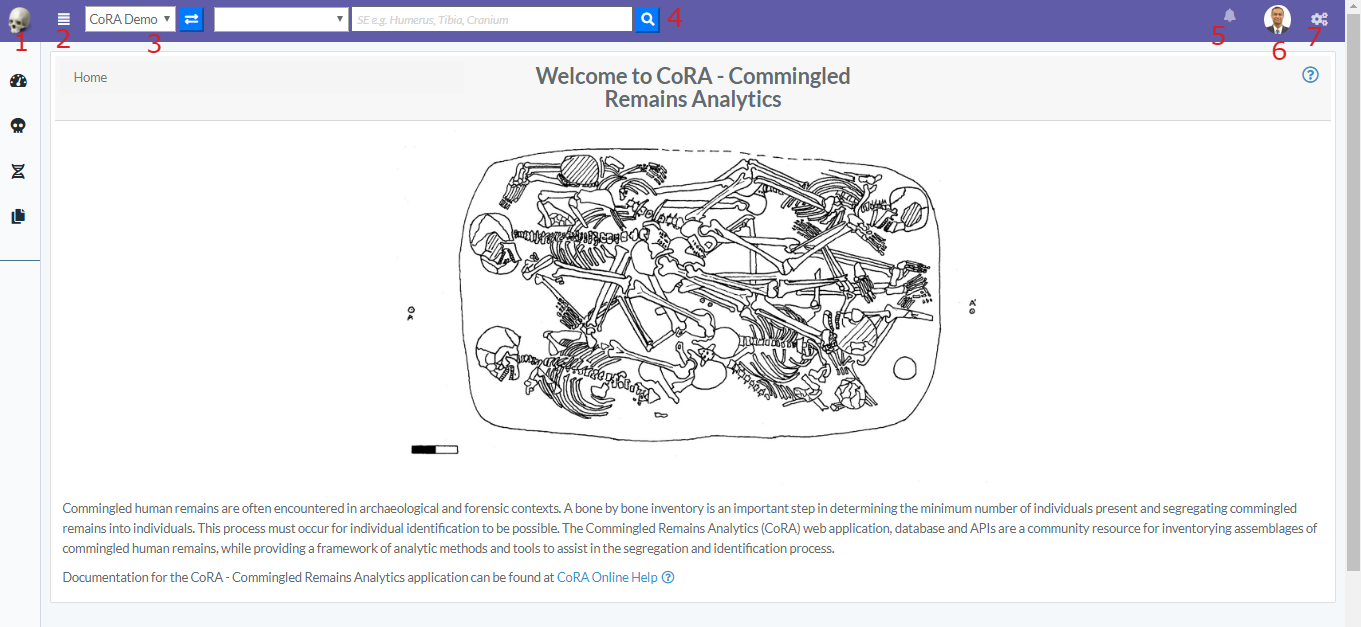
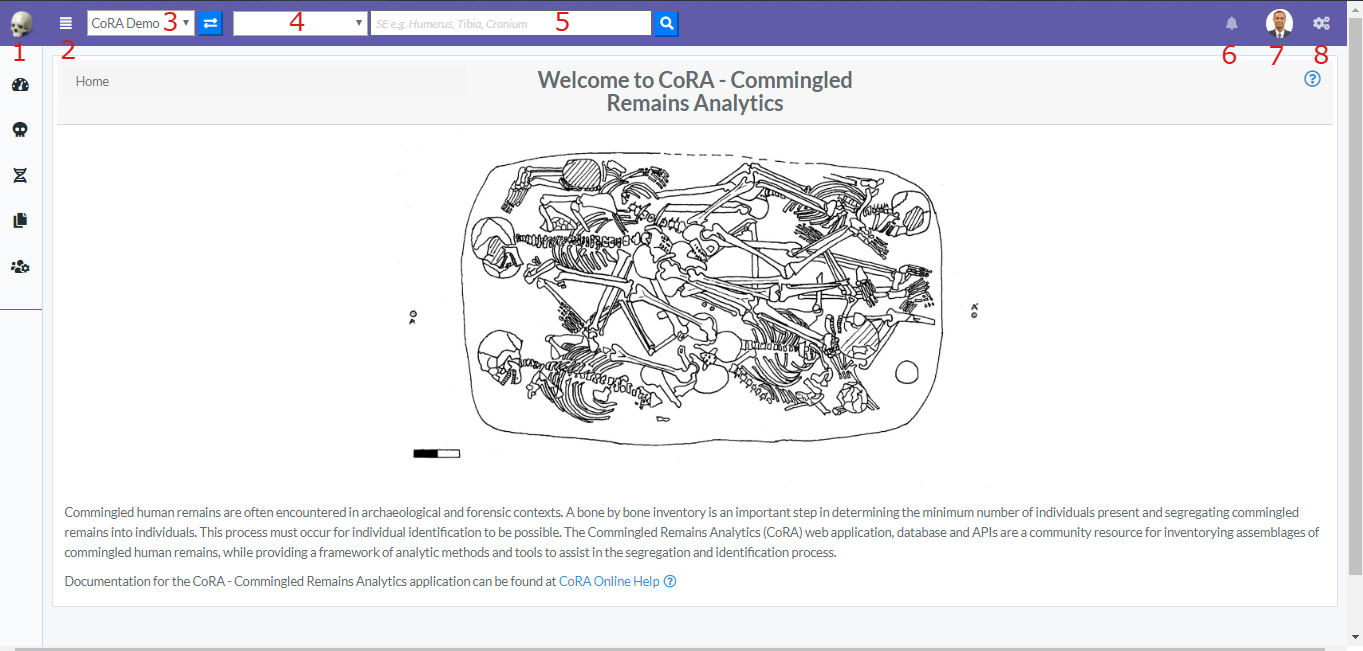
updated the images and layout of leftsidebar document

diff --git a/docs/user-guide/site-navigation.md b/docs/user-guide/site-navigation.md
@@ -8,38 +8,69 @@ The CoRA web application consists of the four basic components. These are-
 
 
    ![Welcome Screen](../images/site_navigation/Welcome%20Screen.png)
-   1. Top Navigation Bar
-   ![Top Navigation Bar](../images/site_navigation/Navigation%20bar.png)
    
-        The navigation bar consists of the CoRA icon, toggle the left sidebar button, project switcher dropdown, advance search bar, the notifications icon, user profile avatar, and the right sidebar button.
-        
-         1. CoRA (1) - The CoRA icon take the user to the home page of the site.
-         2. Toggle the Left Side bar (2) - The Toggle button opens and close the left sidebar.
-         3. Project Switcher (3) - The Project switcher button allows the user to select the different projects the user is a part of.
-         4. Advance Search bar (4) - The Advance search bar allows the user to search the Skeletal Elements and DNA. The user can search the Skeletal Elements by - Bone, Composite key, Accession Number, Provenance 1, Provenace 2, Designator, External ID, Individual Number.
+   
+* ##Top Navigation Bar (1)-
+     The navigation bar consists of the CoRA icon, toggle the left sidebar button, project switcher dropdown, advance search bar, the notifications icon, user profile avatar, and the right sidebar button.
+       
+   ![Navigation Bar](../images/site_navigation/Navigation%20bar.png)
+   
+   1. CoRA (1) - The CoRA icon take the user to the home page of the site.
+   2. Toggle the Left Side bar (2) - The Toggle button opens and close the left sidebar.
+   3. Project Switcher (3) - The Project switcher button allows the user to select the different projects the user is a part of.
+   4. Advance Search bar (4) - The Advance search bar allows the user to search the Skeletal Elements and DNA. The user can search the Skeletal Elements by - Bone, Composite key, Accession Number, Provenance 1, Provenace 2, Designator, External ID, Individual Number.
           The DNA can be searched by the Bone, Composite Number, Accession, Sample Number, Mito seq Number, Haplogroup, External Id, Individual Number.                            
-         5. Notification Icon (5) - The Notification icon show the notifications of the Export file, Import file, job completion and other user specific notification.
-         6. User Avatar (6) - The user avatar shows the user drop down. The user drop down has links to the github CoRA docs, CoRA Forum, change password link, the My Profile button and the Logout button. 
-         7. Right Sidebar Toggle Button (7) - The Right sidebar buttons toggles between the open and closed state of right sidebar.  
-   2. Left Side Bar - The left side bar includes the various modules of the CoRA web application that the user can select. 
-    ![LeftsideBar](../images/site_navigation/leftsidebar_anthro.png) 
-        1. The Dashboard icon (1) takes the user to the dashboard based on the user-role. If the user is Anthropologist then the Anthrobash board will open and if the user iss Org-Admin the Org-Admin Dashboard will open.
+   6. Search Input (5) - Once the search type is selected the user can enter the value in the search input.
+   7. Notification Icon (6) - The Notification icon show the notifications of the Export file, Import file, job completion and other user specific notification.
+   8. User Avatar (7) - The user avatar shows the user drop down. The user drop down has links to the github CoRA docs, CoRA Forum, change password link, the My Profile button and the Logout button. 
+   9. Right Sidebar Toggle Button (8) - The Right sidebar buttons toggles between the open and closed state of right sidebar.  
+   
+   
+* ##Left Side Bar(2) - 
+     The left side bar includes the various modules of the CoRA web application that the user can select. The left side bar will have modules according to the role of the user. The following section shows the left side bar for Anthropologist-
+   
+   ![LeftsideBar](../images/site_navigation/leftsidebar_anthro.png) 
+         
+   1. The Dashboard icon (1) takes the user to the dashboard based on the user-role. If the user is Anthropologist then the Anthropologist dashboard will open and if the user iss Org-Admin the Org-Admin Dashboard will open.
      The dashboard page contains data visualization of the skeletal elements data and dna module. 
      The data visualization has pie charts, bar charts, stacked bar charts and other visualization
-     The view details button on each visualization shows the data associtaed with that visualization.
+     The view details button on each visualization shows the data associated with that visualization.
      
-        2. The Skeletal Elements icon (2) open the skeletal elements module features like New Skeletal Elements, New Bone Group, Skeletal Elements Reports. The New Skeletal Elements opens the page to add the new skeletal element. The New Bone Group opens the page that allows the user to add new skeletal element bone group.
+   2. The Skeletal Elements icon (2) open the skeletal elements module features like New Skeletal Elements, New Bone Group, Skeletal Elements Reports. The New Skeletal Elements opens the page to add the new skeletal element. The New Bone Group opens the page that allows the user to add new skeletal element bone group.
         The Reports dashboard opens the reports dashboard page which allows the user to generate the reports based on the skeletal elements details.
         
-        3. The DNA icon (3) open the DNA features like Search the skeletal element by DNA and Mitochondrial DNA - Advanced Report page. 
+     3. The DNA icon (3) open the DNA features like Search the skeletal element by DNA and Mitochondrial DNA - Advanced Report page. 
         
-        4. The Export-Import Files (4) open the dropdwon for the user to show the export and import features. The Export Files icon opens the export page that allows the user to select from variouss export options.
+     4. The Export-Import Files (4) open the drop down for the user to show the export and import features. The Export Files icon opens the export page that allows the user to select from various export options.
         The Import files icon opens the import page which allows the user to import the files in the database.
         The File Manager Icon opens the file manager page which allows the user to choose from various files that can be exported and view details of the files.
         
-        5. The Administration icon (5) opens the administration dropdown which includes the Project Management icon. The Project Management icon opens the project page.
+     5. The Administration icon (5) opens the administration drop down which includes the Project Management icon. The Project Management icon opens the project page.
+    
+    The Left side bar for the Org Admin includes-
+        
+     ![LeftsideBar](../images/site_navigation/leftsidebar_orgadmin.png) 
+        
+     1. The Dashboard icon (1) takes the user to the dashboard based on the user-role. If the user is Anthropologist then the Anthropologist dashboard will open and if the user iss Org-Admin the Org-Admin Dashboard will open.
+             The dashboard page contains data visualization of the skeletal elements data and dna module. 
+             The data visualization has pie charts, bar charts, stacked bar charts and other visualization
+             The view details button on each visualization shows the data associated with that visualization.
+             
+     2. The Skeletal Elements icon (2) open the skeletal elements module features like New Skeletal Elements, New Bone Group, Skeletal Elements Reports. The New Skeletal Elements opens the page to add the new skeletal element. The New Bone Group opens the page that allows the user to add new skeletal element bone group.
+                The Reports dashboard opens the reports dashboard page which allows the user to generate the reports based on the skeletal elements details.
+                
+     3. The DNA icon (3) open the DNA features like Search the skeletal element by DNA and Mitochondrial DNA - Advanced Report page. 
+                
+     4. The Export-Import Files (4) open the drop down for the user to show the export and import features. The Export Files icon opens the export page that allows the user to select from various export options.
+                The Import files icon opens the import page which allows the user to import the files in the database.
+                The File Manager Icon opens the file manager page which allows the user to choose from various files that can be exported and view details of the files.
+                
+     5. The Administration icon (5) opens the administration drop down which includes the User Management icon, Project Management icon, Accession Management, and Instrument Management icon.
+         The user Management icon opens the user page and allows to manage the user associated with the project. The Project Management icon opens the project page. The Accession Management icon opens the Accession associated with the Project in which the Org Admin can view all the accessions, can create and edit the Accession. 
+         The Instrument Management icon open the Instrument page in which the Org Admin can view all the instrument associated with the project, can create and edit the instrument.
+            
+        
+   *  ##Right Side Bar (3) - 
    
-   3. Right Side Bar - 
-   
-   4. Application Container -
+   * ##Application Container (4) -
    
